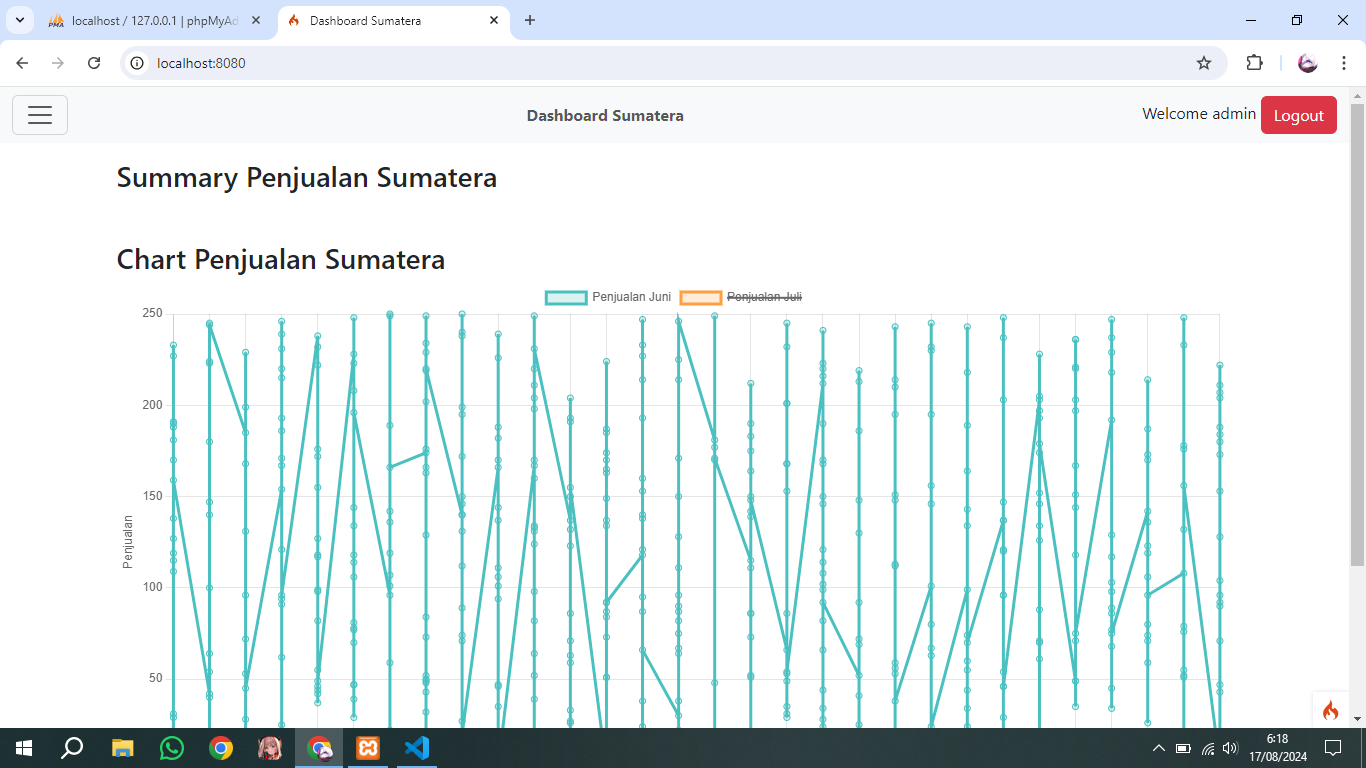
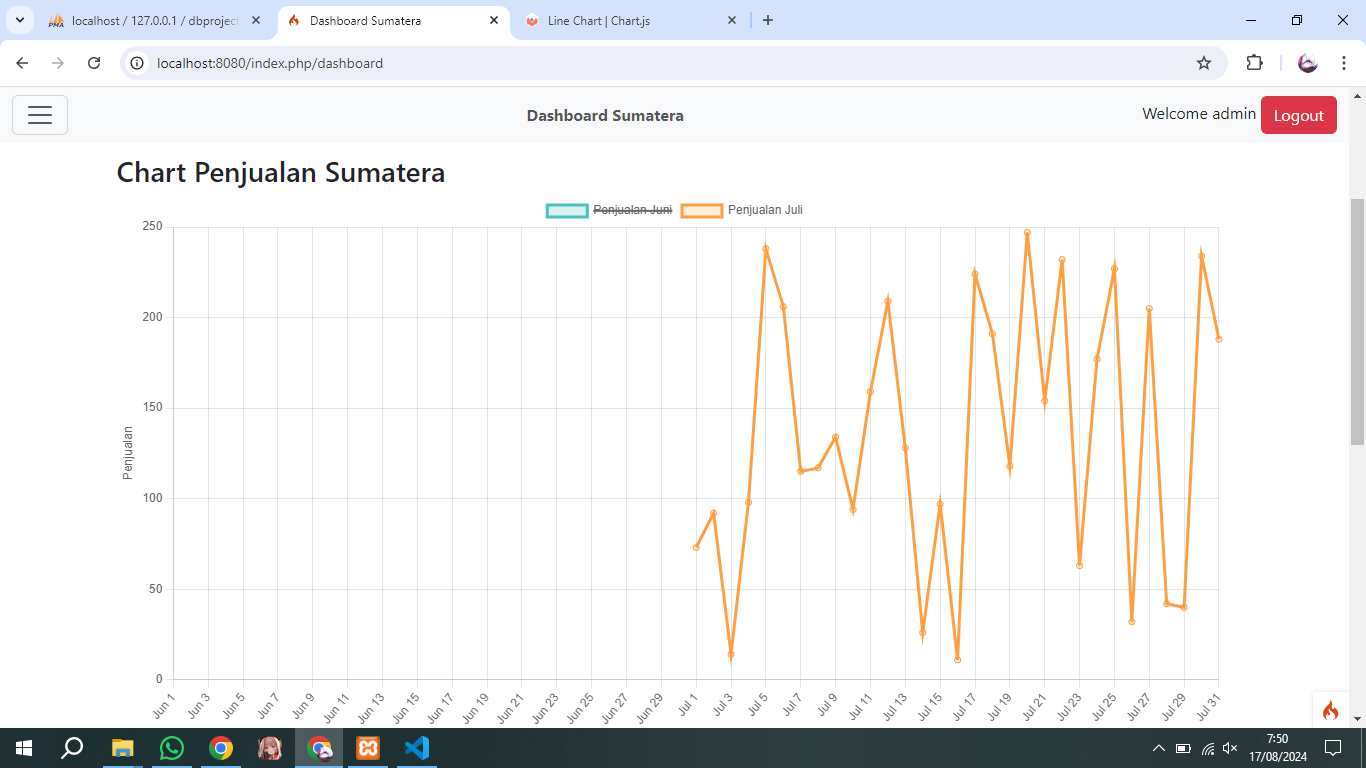
Perbaikan Chart

diff --git a/app/Views/dashboard.php b/app/Views/dashboard.php
@@ -56,7 +56,7 @@
 
     <div id="scorecardCollapse" class="row mt-4 collapse show">
         <div class="col-md-4">
-            <div class="scorecard <?= (current_url() == site_url('dashboard/stocks')) ? 'bg-info' : 'bg-primary'; ?>">
+            <div class="scorecard <?= (current_url() == site_url('dashboard/stocks')) ? 'bg-info' : 'bg-primary'; ?>" data-score="Total">
                 <div class="row">
                     <div class="col">
                         <p>Total</p> 
@@ -70,7 +70,7 @@
             </div>
         </div>
         <div class="col-md-4">
-            <div class="scorecard <?= (current_url() == site_url('dashboard/stocks')) ? 'bg-warning' : 'bg-success'; ?>">
+            <div class="scorecard <?= (current_url() == site_url('dashboard/stocks')) ? 'bg-warning' : 'bg-success'; ?>" data-score="<?= (current_url() == site_url('dashboard/stocks')) ? 'Kartu' : 'Outlet'; ?>">
             <div class="row">
                     <div class="col">
                         <p><?= (current_url() == site_url('dashboard/stocks')) ? 'Kartu' : 'Outlet'; ?></p>
@@ -84,7 +84,7 @@
             </div>
         </div>
         <div class="col-md-4">
-            <div class="scorecard <?= (current_url() == site_url('dashboard/stocks')) ? 'bg-success' : 'bg-warning'; ?>">
+            <div class="scorecard <?= (current_url() == site_url('dashboard/stocks')) ? 'bg-success' : 'bg-warning'; ?>" data-score="<?= (current_url() == site_url('dashboard/stocks')) ? 'Voucher' : 'Sales'; ?>">
             <div class="row">
                     <div class="col">
                         <p><?= (current_url() == site_url('dashboard/stocks')) ? 'Voucher' : 'Sales'; ?></p>
@@ -101,6 +101,22 @@
 
     <h3 class="mt-5" type="button" data-bs-toggle="collapse" data-bs-target="#chartCollapse" aria-expanded="true" aria-controls="chartCollapse">Chart Penjualan <?php echo session()->get('region') ?></h3>
 
+    <?php 
+        $juneDatesArray = json_decode($juneDates, true);
+        $juneSalesArray = json_decode($juneSales, true);
+
+        $juneDataArray = array_combine($juneDatesArray, $juneSalesArray);
+
+        $juneData = json_encode($juneDataArray);
+
+        $julyDatesArray = json_decode($julyDates, true);
+        $julySalesArray = json_decode($julySales, true);
+
+        $julyDataArray = array_combine($julyDatesArray, $julySalesArray);
+
+        $julyData = json_encode($julyDataArray);
+    ?>
+
     <div id="chartCollapse" class="collapse show">
         <canvas id="chartPenjualan"></canvas>
             <script>
@@ -109,11 +125,11 @@
             var chartPenjualan = new Chart(ctx, {
                 type: 'line',
                 data: {
-                    labels: <?= $juneDates; ?>,
+                    labels: <?= $finalDates; ?>,
                     datasets: [
                         {
                             label: 'Penjualan Juni',
-                            data: <?= $juneSales; ?>,
+                            data: <?= $juneData; ?>,
                             borderColor: 'rgba(75, 192, 192, 1)',
                             backgroundColor: 'rgba(75, 192, 192, 0.2)',
                             fill: false,
@@ -121,11 +137,11 @@
                         },
                         {
                             label: 'Penjualan Juli',
-                            data: <?= $julySales; ?>,
+                            data: <?= $julyData; ?>,
                             borderColor: 'rgba(255, 159, 64, 1)',
                             backgroundColor: 'rgba(255, 159, 64, 0.2)',
                             fill: false,
-                            hidden: true
+                            hidden: false
                         }
                     ]
                 },
@@ -134,7 +150,8 @@
                         x: {
                             type: 'time',
                             time: {
-                                unit: 'day'
+                                unit: 'day',
+                                tooltipFormat: 'YYYY-MM-DD',
                             },
                             title: {
                                 display: true,
@@ -149,6 +166,29 @@
                         }
                     }
                 }
+            });
+
+            function updateChartData(score) {
+                let newData;
+                // if (score === 'Total') {
+                //     newData = juneData;
+                // } else if (score === 'july') {
+                //     newData = julyData;
+                // } else if (score === 'august') {
+                //     newData = augustData;
+                // }
+
+                // salesChart.data.datasets[0].data = newData;
+                // salesChart.update();
+                console.log(score);
+            }
+
+            console.log($juneDates);
+            document.querySelectorAll('.scorecard').forEach(card => {
+                card.addEventListener('click', function() {
+                    const score = this.getAttribute('data-score');
+                    updateChartData(score);
+                });
             });
 
         </script>

diff --git a/app/Controllers/Home.php b/app/Controllers/Home.php
@@ -28,6 +28,14 @@ class Home extends BaseController
                 $chart = $penjualanModel->select('DATE(tgl_penjualan) as tglPenjualan, total_penjualan')
                                     ->orderBy('tgl_penjualan', 'ASC')
                                     ->findAll();
+                $chartOutlet = $penjualanModel->select('DATE(tgl_penjualan) as tglPenjualan, total_penjualan')
+                                    ->where('jenis', 'Outlet')
+                                    ->orderBy('tgl_penjualan', 'ASC')
+                                    ->findAll();
+                $chartSales = $penjualanModel->select('DATE(tgl_penjualan) as tglPenjualan, total_penjualan')
+                                    ->where('jenis', 'Sales')
+                                    ->orderBy('tgl_penjualan', 'ASC')
+                                    ->findAll();
                 $outletSales = $penjualanModel->select('SUM(total_penjualan) as totalPenjualan')->findAll();
                 $outlet = $penjualanModel->select('SUM(total_penjualan) as totalPenjualan')->where('jenis', 'Outlet')->findAll();
                 $sales = $penjualanModel->select('SUM(total_penjualan) as totalPenjualan')->where('jenis', 'Sales')->findAll();
@@ -47,6 +55,8 @@ class Home extends BaseController
                     ->where('provinsi', $role)
                     ->orderBy('tgl_penjualan', 'ASC')
                     ->findAll();
+                $chartOutlet = [];
+                $chartSales = [];
 
                 $outletSales = $penjualanModel->select('SUM(total_penjualan) as totalPenjualan')->where('provinsi', $role)->findAll();
                 $outlet = $penjualanModel->select('SUM(total_penjualan) as totalPenjualan')->where('jenis', 'Outlet')->where('provinsi', $role)->findAll();
@@ -63,6 +73,12 @@ class Home extends BaseController
             $juneData = [];
             $julyData = [];
 
+            $juneDataOutlet = [];
+            $julyDataOutlet = [];
+
+            $juneDataSales = [];
+            $julyDataSales = [];
+
             foreach ($chart as $row) {
                 $month = date('m', strtotime($row['tglPenjualan']));
     
@@ -70,6 +86,24 @@ class Home extends BaseController
                     $juneData[] = $row;
                 } elseif ($month == '07') {
                     $julyData[] = $row;
+                }
+            }
+            foreach ($chartOutlet as $row) {
+                $month = date('m', strtotime($row['tglPenjualan']));
+    
+                if ($month == '06') {
+                    $juneDataOutlet[] = $row;
+                } elseif ($month == '07') {
+                    $julyDataOutlet[] = $row;
+                }
+            }
+            foreach ($chartSales as $row) {
+                $month = date('m', strtotime($row['tglPenjualan']));
+    
+                if ($month == '06') {
+                    $juneDataSales[] = $row;
+                } elseif ($month == '07') {
+                    $julyDataSales[] = $row;
                 }
             }
 
@@ -87,6 +121,21 @@ class Home extends BaseController
 
             $data['julyDates'] = json_encode(array_column($julyData, 'tglPenjualan'));
             $data['julySales'] = json_encode(array_column($julyData, 'total_penjualan'));
+
+            $finalDates = array_merge($juneData, $julyData);
+            $data['finalDates'] = json_encode((array_column($finalDates, 'tglPenjualan')));
+
+            $data['juneDatesOutlet'] = json_encode(array_column($juneDataOutlet, 'tglPenjualan'));
+            $data['juneSalesOutlet'] = json_encode(array_column($juneDataOutlet, 'total_penjualan'));
+
+            $data['julyDatesOutlet'] = json_encode(array_column($julyDataOutlet, 'tglPenjualan'));
+            $data['julySalesOutlet'] = json_encode(array_column($julyDataOutlet, 'total_penjualan'));
+            
+            $data['juneDatesSales'] = json_encode(array_column($juneDataSales, 'tglPenjualan'));
+            $data['juneSalesSales'] = json_encode(array_column($juneDataSales, 'total_penjualan'));
+
+            $data['julyDatesSales'] = json_encode(array_column($julyDataSales, 'tglPenjualan'));
+            $data['julySalesSales'] = json_encode(array_column($julyDataSales, 'total_penjualan'));
 
             $data['totalMainData'] = $outletSales;
             $data['totalFirstData'] = $outlet;
